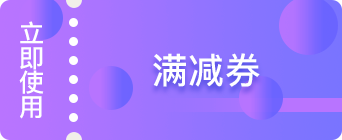
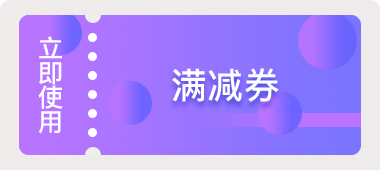
优惠券图片修改

diff --git a/src/views/goods/list_new.vue b/src/views/goods/list_new.vue
@@ -228,7 +228,7 @@
                 <img :src="require('@/assets/goods/lfl_mall_coupon.png')" class="img-responsive">
                 <div class="caption">
                   <div>
-                    外链卡券
+                    满减券
                     <el-tooltip class="item" effect="light" :content="'LflMallCoupon' | i18n" placement="top">
                       <el-button type="text"><i class="fa fa-question-circle-o" /></el-button>
                     </el-tooltip>
